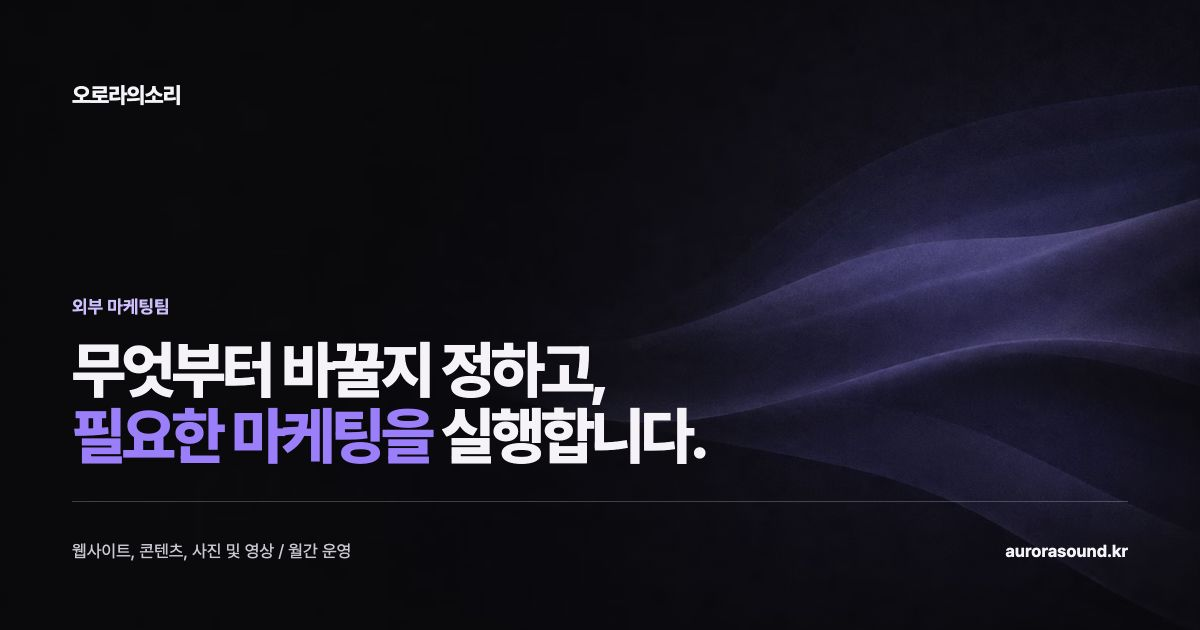
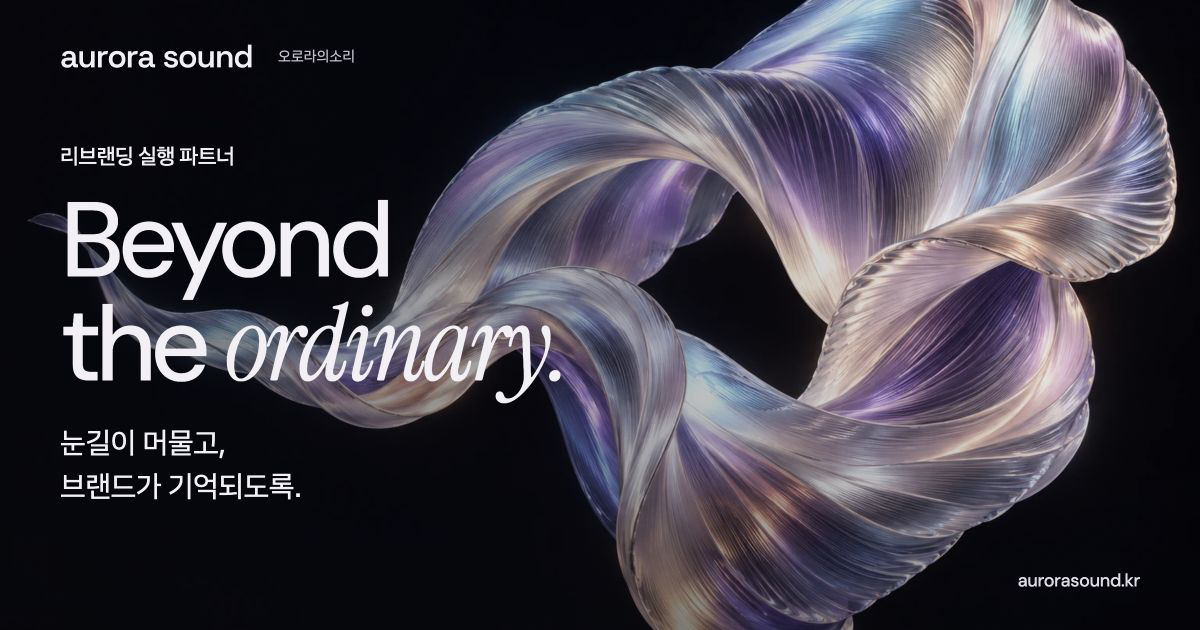
Apply the updated share image and fresh preview metadata

diff --git a/journal/index.html b/journal/index.html
@@ -9,5 +9,5 @@
 <link rel="apple-touch-icon" sizes="180x180" href="/assets/aurora-apple-touch-icon-20261002.png" /><meta name="theme-color" content="#08090e">
 <link rel="preconnect" href="https://fonts.googleapis.com"><link rel="preconnect" href="https://fonts.gstatic.com" crossorigin>
 <link href="https://fonts.googleapis.com/css2?family=Asta+Sans:wght@300..800&amp;family=DM+Sans:wght@400;450;500;600;700&amp;family=Instrument+Serif:ital@0;1&amp;display=swap" rel="stylesheet">
-<link rel="stylesheet" href="/rebrand/fonts.css?v=2" /><link rel="stylesheet" href="/rebrand/style.css?v=56"><link rel="stylesheet" href="/work/style.css?v=25"><link rel="stylesheet" href="/journal/journal.css?v=8"><link rel="canonical" href="https://www.aurorasound.kr/journal"><meta property="og:type" content="website"><meta property="og:locale" content="ko_KR"><meta property="og:site_name" content="오로라의소리"><meta property="og:title" content="브랜드 노트 / 브랜드를 읽고, 다음을 생각합니다 | 오로라의소리"><meta property="og:description" content="사업자가 브랜드를 만들고 운영하는 데 필요한 판단과 오로라의 작업을 살펴보는 브랜드 노트입니다."><meta property="og:url" content="https://www.aurorasound.kr/journal"><meta property="og:image" content="https://www.aurorasound.kr/assets/aurora-og.png"><meta name="twitter:card" content="summary_large_image"></head>
+<link rel="stylesheet" href="/rebrand/fonts.css?v=2" /><link rel="stylesheet" href="/rebrand/style.css?v=56"><link rel="stylesheet" href="/work/style.css?v=25"><link rel="stylesheet" href="/journal/journal.css?v=8"><link rel="canonical" href="https://www.aurorasound.kr/journal"><meta property="og:type" content="website"><meta property="og:locale" content="ko_KR"><meta property="og:site_name" content="오로라의소리"><meta property="og:title" content="브랜드 노트 / 브랜드를 읽고, 다음을 생각합니다 | 오로라의소리"><meta property="og:description" content="사업자가 브랜드를 만들고 운영하는 데 필요한 판단과 오로라의 작업을 살펴보는 브랜드 노트입니다."><meta property="og:url" content="https://www.aurorasound.kr/journal"><meta property="og:image" content="https://www.aurorasound.kr/assets/aurora-og-20261015.png"><meta name="twitter:card" content="summary_large_image"></head>
 <body class="journal-page journal-connected"><a class="skip" href="#main">본문으로 바로가기</a><header class="header scrolled"><a class="wordmark wordmark-horizontal" href="/" aria-label="오로라의소리 홈"><img class="brand-wordmark" src="/rebrand/assets/aurora-wordmark.svg?v=2" width="6062" height="754" alt="aurora sound"></a><span class="header-caption header-caption-single">오로라의소리</span><nav aria-label="주요 메뉴"><a href="/work">포트폴리오</a><a href="/journal" aria-current="page">브랜드 노트</a><a href="/#expertise">함께하는 일</a></nav><a class="work-mobile-home" href="/">홈으로</a><a class="contact-link" href="/#contact">프로젝트 문의</a><nav class="journal-mobile-nav" aria-label="모바일 주요 메뉴"><a href="/">홈</a><a href="/work">포트폴리오</a><a href="/journal" aria-current="page">브랜드 노트</a><a href="/#expertise">함께하는 일</a></nav></header><main id="main" tabindex="-1"><div class="journal-shell"><p class="journal-kicker">AURORA SOUND / BRAND NOTES</p><div class="journal-masthead"><h1 class="brand-notes-title">브랜드 노트</h1><p>브랜드를 읽고,<br>우리 사업의 다음을 생각합니다.</p></div><article class="journal-feature"><a class="journal-feature-image" href="/journal/before-the-first-consultation" aria-label="첫 상담을 위한 안내"><img src="/work/demos/13-chaon-law/assets/hero-sky-v58.webp" alt="하늘 아래 건물이 놓인 법률사무소 서안의 콘셉트 이미지" width="1440" height="810" fetchpriority="high" decoding="async"></a><div><p class="journal-kicker">EDITOR'S PICK</p><div class="journal-meta"><span>브랜드의 판단</span><span>첫 상담</span></div><h2><a href="/journal/before-the-first-consultation">첫 상담을 위한 안내</a></h2><p class="journal-feature-summary">전문성을 설명한 다음에는 고객이 자신의 상황을 이야기할 수 있어야 합니다. 첫 상담을 앞둔 사람의 입장에서 홈페이지를 읽어봅니다.</p><a class="journal-link journal-read-link" href="/journal/before-the-first-consultation" aria-label="첫 상담을 위한 안내 글 읽기">글 읽기</a></div></article><div class="journal-grid-heading"><h2>이어서 읽기</h2><span>판단, 작업, 운영</span></div><div class="journal-grid"><article class="journal-card"><a class="journal-card-image" href="/journal/show-the-product-in-use" aria-label="제품을 이해시키는 장면"><img src="/work/demos/18-formkey-productivity/assets/hero-red.webp" alt="검은 바탕에 붉은 입체 띠가 놓인 Formkey 콘셉트 그래픽" width="1440" height="810" loading="lazy" decoding="async"></a><div class="journal-meta"><span>오로라 작업 노트</span><span>서비스 이해</span></div><h2><a href="/journal/show-the-product-in-use">제품을 이해시키는 장면</a></h2><p>업무용 서비스의 홈페이지라면, 인상을 만드는 그래픽과 사용을 설명하는 화면은 어떤 순서로 이어져야 할까요? Formkey 디자인을 바탕으로 살펴봅니다.</p><a class="journal-link journal-read-link" href="/journal/show-the-product-in-use" aria-label="제품을 이해시키는 장면 글 읽기">글 읽기</a></article><article class="journal-card"><a class="journal-card-image" href="/journal/a-photo-needs-a-next-step" aria-label="사진 다음의 행동"><img src="/work/assets/web-haebit.webp" alt="스위치조명 홈페이지의 조명과 공간 소개 화면" width="1440" height="810" loading="lazy" decoding="async"></a><div class="journal-meta"><span>운영의 관점</span><span>콘텐츠와 문의</span></div><h2><a href="/journal/a-photo-needs-a-next-step">사진 다음의 행동</a></h2><p>조명과 공간의 사진은 선택의 시작이 될 수 있습니다. 관심이 생긴 사람이 상담을 준비할 수 있도록 콘텐츠와 홈페이지를 잇는 방법을 살펴봅니다.</p><a class="journal-link journal-read-link" href="/journal/a-photo-needs-a-next-step" aria-label="사진 다음의 행동 글 읽기">글 읽기</a></article></div></div></main><section class="journal-consult" aria-labelledby="journal-consult-title"><div class="journal-consult-inner"><div><span class="journal-kicker">WITH AURORA</span><h2 id="journal-consult-title">우리 사업에 필요한 일부터 이야기합니다.</h2></div><div><p>홈페이지부터 콘텐츠와 채널 운영까지, 현재 상황을 살펴보고 맡길 범위와 우선순위를 정리합니다. 지금 막히는 지점이 있다면 상담에서 이야기해 주세요.</p><a class="journal-consult-link" href="/#contact">프로젝트 상담 안내 <span aria-hidden="true">↗</span></a></div></div></section><footer class="work-footer"><a class="wordmark wordmark-horizontal" href="/" aria-label="오로라의소리 홈"><img class="brand-wordmark" src="/rebrand/assets/aurora-wordmark.svg?v=2" width="6062" height="754" alt="aurora sound"></a><p>오로라의소리<br>BRAND STRATEGY &amp; CREATIVE</p><div class="footer-contact"><nav class="footer-socials" aria-label="소셜 채널 및 이메일"><a id="footer-youtube-link" data-track="youtube" href="https://www.youtube.com/channel/UCWKI1K2qTf8H1AMfu9pCC3A" target="_blank" rel="noopener noreferrer" aria-label="유튜브 (새 탭)" title="유튜브"><svg viewBox="0 0 24 24" width="22" height="22" aria-hidden="true" focusable="false"><path fill="currentColor" fill-rule="evenodd" d="M21.6 7.2a2.8 2.8 0 0 0-2-2C17.8 4.7 12 4.7 12 4.7s-5.8 0-7.6.5a2.8 2.8 0 0 0-2 2A29.3 29.3 0 0 0 2 12a29.3 29.3 0 0 0 .4 4.8 2.8 2.8 0 0 0 2 2c1.8.5 7.6.5 7.6.5s5.8 0 7.6-.5a2.8 2.8 0 0 0 2-2A29.3 29.3 0 0 0 22 12a29.3 29.3 0 0 0-.4-4.8ZM10 15.2V8.8l5.5 3.2-5.5 3.2Z"/></svg></a><a id="footer-facebook-link" href="https://www.facebook.com/profile.php?id=61591953249965" target="_blank" rel="noopener noreferrer" aria-label="페이스북 (새 탭)" title="페이스북"><svg viewBox="0 0 24 24" width="22" height="22" aria-hidden="true" focusable="false"><path fill="currentColor" d="M13.6 22v-9.1h3.1l.5-3.6h-3.6V7c0-1 .3-1.7 1.8-1.7h1.9V2.1C17 2 15.8 2 14.6 2c-2.7 0-4.5 1.6-4.5 4.6v2.7H7v3.6h3.1V22h3.5Z"/></svg></a><a id="footer-insta-link" data-track="instagram" href="https://www.instagram.com/aurorasound_branding/" target="_blank" rel="noopener noreferrer" aria-label="인스타그램 (새 탭)" title="인스타그램"><svg viewBox="0 0 24 24" width="22" height="22" aria-hidden="true" focusable="false"><rect x="3" y="3" width="18" height="18" rx="5" fill="none" stroke="currentColor" stroke-width="1.8"/><circle cx="12" cy="12" r="4" fill="none" stroke="currentColor" stroke-width="1.8"/><circle cx="17.5" cy="6.5" r="1.1" fill="currentColor"/></svg></a><a id="footer-email-link" data-track="email" href="mailto:contact@aurorasound.kr" aria-label="이메일 contact@aurorasound.kr" title="이메일: contact@aurorasound.kr"><svg viewBox="0 0 24 24" width="22" height="22" aria-hidden="true" focusable="false"><rect x="3" y="5" width="18" height="14" rx="2.5" fill="none" stroke="currentColor" stroke-width="1.8"/><path d="m4 6 8 6 8-6" fill="none" stroke="currentColor" stroke-width="1.8" stroke-linecap="round" stroke-linejoin="round"/></svg></a></nav></div><div class="work-footer-meta"><a href="/privacy.html">개인정보 처리방침</a><a href="/terms.html">이용약관</a><span>© 2026 오로라의소리. All rights reserved.</span></div></footer></body></html>

diff --git a/scripts/og-card.html b/scripts/og-card.html
@@ -1,85 +1,72 @@
-<!DOCTYPE html>
+<!doctype html>
 <html lang="ko">
 <head>
-  <meta charset="UTF-8" />
+  <meta charset="utf-8" />
   <meta name="viewport" content="width=1200, initial-scale=1" />
-  <title>오로라의소리 OG 카드</title>
-  <link rel="stylesheet" href="https://cdn.jsdelivr.net/gh/orioncactus/pretendard@v1.3.9/dist/web/variable/pretendardvariable-dynamic-subset.min.css" />
+  <title>오로라의소리 공유 이미지</title>
+  <link rel="preconnect" href="https://fonts.googleapis.com" />
+  <link rel="preconnect" href="https://fonts.gstatic.com" crossorigin />
+  <link href="https://fonts.googleapis.com/css2?family=Asta+Sans:wght@400;500&amp;family=DM+Sans:wght@450&amp;family=Instrument+Serif:ital@1&amp;display=swap" rel="stylesheet" />
   <style>
+    @font-face {
+      font-family: "Aurora Hero Sans";
+      src: url("/rebrand/assets/fonts/aurora-hero-450.woff2") format("woff2");
+      font-weight: 450;
+      font-style: normal;
+      font-display: block;
+      unicode-range: U+0042, U+0064-0065, U+006E-006F, U+0079;
+    }
     * { box-sizing: border-box; }
-    html,
-    body { width: 1200px; height: 630px; }
+    html, body { width: 1200px; height: 630px; }
     body {
       position: relative;
       margin: 0;
       overflow: hidden;
-      background: #09090e url("/assets/aurora-wave-bg.avif") center right / cover no-repeat;
-      color: #f5f3f8;
-      font-family: "Pretendard Variable", Pretendard, sans-serif;
+      background: #0a0a10 url("/rebrand/assets/resonance.webp") center / cover no-repeat;
+      color: #f2f0f5;
+      font-family: "Asta Sans", "DM Sans", sans-serif;
+      font-synthesis: none;
       word-break: keep-all;
     }
-    body::after {
+    body::before {
       content: "";
       position: absolute;
       inset: 0;
-      background: linear-gradient(90deg, rgba(5, 5, 9, .28), rgba(5, 5, 9, .04) 67%, rgba(5, 5, 9, .16));
+      background: linear-gradient(90deg, rgba(8,9,14,.62), rgba(8,9,14,.36) 42%, rgba(8,9,14,.10) 78%),
+        linear-gradient(0deg, rgba(8,9,14,.36), transparent 40%);
     }
-    main {
-      position: relative;
-      z-index: 1;
-      height: 100%;
-      display: flex;
-      flex-direction: column;
-      padding: 60px 72px 52px;
-    }
-    .wordmark {
-      font-size: 22px;
-      font-weight: 770;
-      letter-spacing: -.04em;
-    }
-    .content {
-      margin-top: auto;
-    }
-    .eyebrow {
-      color: #d1bcff;
-      font-size: 18px;
-      font-weight: 700;
-    }
+    main { position: relative; height: 100%; padding: 44px 60px 38px; }
+    .identity { display: flex; align-items: center; gap: 22px; }
+    .wordmark { display: block; width: 196px; height: auto; }
+    .brand-name { margin: 0; font-size: 15px; font-weight: 400; color: #c3bdcc; }
+    .content { margin-top: 73px; }
+    .role { margin: 0 0 18px; font-size: 22px; line-height: 1.35; font-weight: 500; letter-spacing: -.025em; }
     h1 {
-      margin: 20px 0 0;
-      font-size: 62px;
-      font-weight: 820;
-      line-height: 1.06;
-      letter-spacing: -.06em;
+      margin: 0;
+      font-family: "Aurora Hero Sans", "DM Sans", sans-serif;
+      font-size: 106px;
+      line-height: .98;
+      font-weight: 450;
+      letter-spacing: -.065em;
     }
-    h1 span { color: #a276ff; }
-    .footer {
-      display: flex;
-      justify-content: space-between;
-      align-items: end;
-      margin-top: 32px;
-      padding-top: 22px;
-      border-top: 1px solid rgba(255, 255, 255, .22);
-      color: #cbc7d2;
-      font-size: 17px;
-    }
-    .footer strong {
-      color: #f5f3f8;
-      font-weight: 700;
-    }
+    h1 span { display: block; }
+    h1 em { font-family: "Instrument Serif", serif; font-weight: 400; letter-spacing: -.035em; }
+    .message { margin: 24px 0 0; font-size: 30px; line-height: 1.45; font-weight: 400; letter-spacing: -.015em; }
+    .url { position: absolute; right: 60px; bottom: 38px; margin: 0; font-family: "DM Sans", sans-serif; font-size: 18px; letter-spacing: -.015em; color: #e0dbe9; }
   </style>
 </head>
 <body>
   <main>
-    <p class="wordmark">오로라의소리</p>
-    <div class="content">
-      <p class="eyebrow">외부 마케팅팀</p>
-      <h1>무엇부터 바꿀지 정하고,<br /><span>필요한 마케팅을</span> 실행합니다.</h1>
-      <div class="footer">
-        <p>웹사이트, 콘텐츠, 사진 및 영상 / 월간 운영</p>
-        <p><strong>aurorasound.kr</strong></p>
-      </div>
+    <div class="identity">
+      <img class="wordmark" src="/rebrand/assets/aurora-wordmark.svg?v=2" alt="aurora sound" />
+      <p class="brand-name">오로라의소리</p>
     </div>
+    <div class="content">
+      <p class="role">리브랜딩 실행 파트너</p>
+      <h1 lang="en"><span>Beyond</span><span>the <em>ordinary.</em></span></h1>
+      <p class="message">눈길이 머물고,<br />브랜드가 기억되도록.</p>
+    </div>
+    <p class="url">aurorasound.kr</p>
   </main>
 </body>
 </html>

diff --git a/index.html b/index.html
@@ -21,14 +21,17 @@
   <meta property="og:site_name" content="오로라의소리" />
   <meta property="og:title" content="오로라의소리 | 웹사이트, 콘텐츠, 사진 및 영상과 마케팅 운영" />
   <meta property="og:description" content="무엇부터 바꿀지 정하고 필요한 마케팅을 실행합니다. 브랜드의 방향부터 웹사이트, 콘텐츠, 사진 및 영상 제작과 월간 운영까지 함께하는 외부 마케팅팀, 오로라의소리입니다." />
-  <meta property="og:image" content="https://www.aurorasound.kr/assets/aurora-og.png?v=20261008-2" />
+  <meta property="og:image" content="https://www.aurorasound.kr/assets/aurora-og-20261015.png" />
+  <meta property="og:image:secure_url" content="https://www.aurorasound.kr/assets/aurora-og-20261015.png" />
+  <meta property="og:image:type" content="image/png" />
   <meta property="og:image:width" content="1200" />
   <meta property="og:image:height" content="630" />
-  <meta property="og:image:alt" content="오로라의소리 외부 마케팅팀" />
+  <meta property="og:image:alt" content="오로라의소리, 리브랜딩 실행 파트너. 눈길이 머물고, 브랜드가 기억되도록." />
   <meta name="twitter:card" content="summary_large_image" />
   <meta name="twitter:title" content="오로라의소리 | 웹사이트, 콘텐츠, 사진 및 영상과 마케팅 운영" />
   <meta name="twitter:description" content="무엇부터 바꿀지 정하고 필요한 마케팅을 실행합니다. 브랜드의 방향부터 웹사이트, 콘텐츠, 사진 및 영상 제작과 월간 운영까지 함께하는 외부 마케팅팀, 오로라의소리입니다." />
-  <meta name="twitter:image" content="https://www.aurorasound.kr/assets/aurora-og.png?v=20261008-2" />
+  <meta name="twitter:image" content="https://www.aurorasound.kr/assets/aurora-og-20261015.png" />
+  <meta name="twitter:image:alt" content="오로라의소리, 리브랜딩 실행 파트너. 눈길이 머물고, 브랜드가 기억되도록." />
 
 
     <meta name="theme-color" content="#0a0a10" />

diff --git a/design-qa.md b/design-qa.md
@@ -335,3 +335,9 @@ aurora-copy-writing의 자연스러운 문체와 설득력 보강 기준, A01 Vo
 변경된 배치에서 첫 화면 프로젝트 문의 버튼을 실제 클릭해 #contact로 이동하고 Let’s talk. 제목이 보이는 것을 확인했다. HTML 53개는 CSS 캐시 주소 외의 변경이 없음을 원본과 비교했다. npm run check를 통과했으며 최종 diff도 확인했다. 이번 변경 범위에 남은 P0, P1, P2 문제는 없다. 앞선 감사에서 별도로 지적한 음악 시작 방식과 배경 대비는 이번 요청 범위에 포함하지 않았다.
 
 final result: passed
+
+## 공유 이미지 갱신, 2026-10-15
+
+대표 요청에 따라 현재 홈페이지의 실크 원본, 가로형 로고와 서체로 공유 카드를 다시 구성했다. scripts/og-card.html을 Chrome의 실제 1200×630 뷰포트에서 렌더링하고 이미지 및 글꼴 로딩 후 캡처를 직접 검수했다. 역할 안내, 영문 제목과 두 줄의 한글 소개, 로고와 주소의 겹침이 없다. 검수본은 Desktop/codex-output/99_최종아님_삭제대기/aurora-share-20261015/share-card.jpg이며 PNG 변환 후 치수와 화면을 다시 확인했다.
+
+홈과 /interview의 OG 및 Twitter 이미지 주소를 새 assets/aurora-og-20261015.png로 바꿨다. 이전 이미지 경로는 Vercel rewrite로 같은 새 자산에 연결한다. 브랜드 노트 목록의 기본 이미지도 홈페이지 기준을 사용하며 개별 글의 대표 이미지는 유지한다. 홈페이지 body가 이전 HEAD와 바이트 단위로 같고 화면 CSS 및 동작은 변경하지 않았다. 로컬 홈, /interview와 PNG 응답 200, image/png와 1200×630, npm run check 및 git diff --check를 확인했다. Production 응답과 스레드 미리보기는 배포 후 별도로 확인한다.

diff --git a/docs/DESIGN.md b/docs/DESIGN.md
@@ -30,6 +30,8 @@ FAQ 질문은 PC 20px, 모바일 17px, 답변은 PC와 모바일 모두 16px다.
 
 ## 접근과 검수
 
+홈페이지의 링크 공유 이미지는 1200×630이며 현재 첫 화면의 진주빛 실크, 가로형 워드마크와 서체를 이어 쓴다. 역할 안내, Beyond the ordinary.와 두 줄의 한글 소개를 유지하고 메뉴와 조작 버튼은 넣지 않는다. 작은 미리보기에서 읽히도록 왼쪽 명암을 보정한다. 편집 원본은 scripts/og-card.html, 공개 이미지는 assets/aurora-og-20261015.png다.
+
 고정 카카오 문의는 첫 화면, 본문 문의, 모바일 갤러리와 사진 확대 및 FAQ를 가리지 않도록 현재 표시 규칙을 따른다. 키보드 초점과 44px 이상의 주요 조작 영역, 네이티브 details, 정적 대체 이미지와 동작 줄이기를 보존한다. 1440×1024, 390×844 및 320×844에서 실제 글자, 줄바꿈, 그림과 버튼의 겹침을 확인한다.
 
 법적 문서와 개별 샘플 사이트, 사진 안에 이미 포함된 글자는 별도의 원본으로 유지한다. 검수된 현재 화면은 [../design-qa.md](../design-qa.md)를 따른다.
